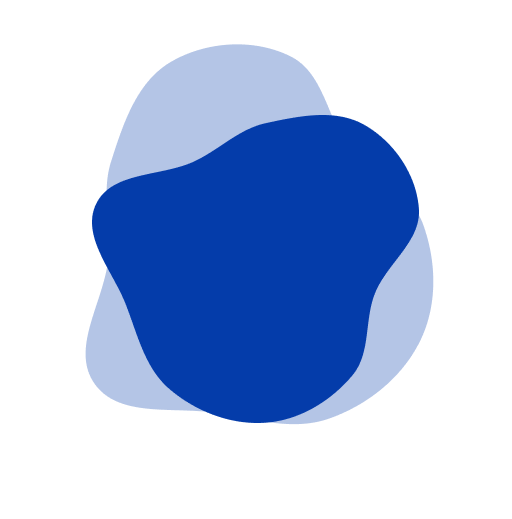
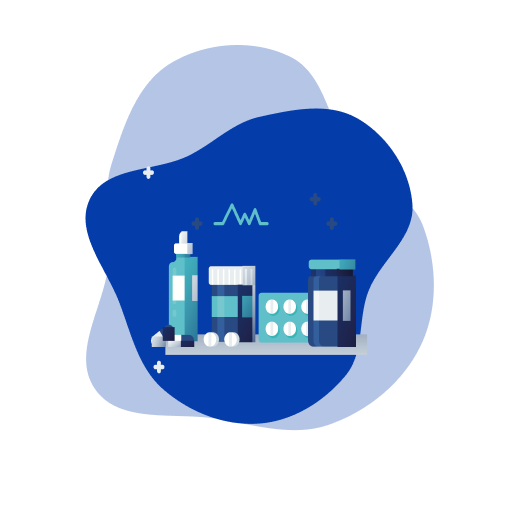
2nd commit

diff --git a/html/index.html b/html/index.html
@@ -14,13 +14,13 @@
                 <img src="../images/logo.png" alt="logo">
                 <h2>Levalis</h2>
             </div>
-            <div class="nav_item nav_item--one"> Home </div>
-            <div class="nav_item nav_item--two"> About Us </div>
-            <div class="nav_item nav_item--three"> Our Products </div>
-            <div class="nav_item nav_item--four"> Contact Us </div>
+            <div class="nav_item nav_item--norm"> Home </div>
+            <div class="nav_item nav_item--norm"> About Us </div>
+            <div class="nav_item nav_item--norm"> Our Products </div>
+            <div class="nav_item nav_item--norm"> Contact Us </div>
 
             <div class="nav_item nav_item--button">
-                <a href=" include google maps link " >
+                <a href="https://www.bing.com/maps?osid=8cf6a7bf-069d-4618-8926-9488ec0c5c44&cp=33.863396~35.534549&lvl=16&pi=0&v=2&sV=2&form=S00027" >
                     <button class="location_button">
                         Locations
                     </button>
@@ -29,7 +29,78 @@
 
 
         </nav>
+
+        <p class="hero_title"> 
+            Delivering Excellence in Healthcare for Your Needs 
+        </p>
+        <p class="hero_description">Focused on oncology, nuclear medicine, and radiology
+            with growing expertise in gastrology and anesthesia.</p>
+        <div class="search">
+            
+        </div>
+     
     </header>
+    <main>
+        <div class="benefits_section">
+            <div class="benefits">
+                <div class="benefits_title">
+                    Comprehensive Healthcare Solutions
+                </div>
+             <ul>
+                <li><img src="../images/Exclude.png"> Search and find your drugs</li>
+                <li><img src="../images/Exclude.png"> We have drugs to treat tumors</li>
+                <li><img src="../images/Exclude.png"> Get notified when your drug is available</li>
+             </ul>
+
+            <button class="perscription_button">
+                GET PERSCRIPTION &rarr;
+            </button>
+            </div>
+            <div class="bubble">
+                <img src="../images/bubble1.png" alt="image" width="400px" height="400px"/>
+            </div>
+        </div>
+        <div class="benefits_section">
+            <div class="bubble">
+                <img src="../images/bubble2.png"/>
+            </div>
+            <div class="benefits">
+                <div class="benefits_title">
+                    Get your drugs at your doorstep
+                </div>
+             <ul>
+                <li><img src="../images/Exclude.png"> Get straigh delivery to your doorstep</li>
+                <li><img src="../images/Exclude.png"> We deliver within 24hrs of request</li>
+                <li><img src="../images/Exclude.png"> We guarantee speedily response</li>
+             </ul>
+
+            <button class="perscription_button">
+                GET PERSCRIPTION &rarr;
+            </button>
+            </div>
+           
+        </div>
+        <div class="benefits_section">
+            <div class="benefits">
+                <div class="benefits_title">
+                    Set up your profile and get refill easily
+                </div>
+             <ul>
+                <li><img src="../images/Exclude.png"> When you are a member your refill is easier</li>
+                <li><img src="../images/Exclude.png"> With one click your medicine is on it’s way</li>
+                <li><img src="../images/Exclude.png"> Select a health care specialist</li>
+             </ul>
+
+            <button class="perscription_button">
+                GET PERSCRIPTION &rarr;x
+            </button>
+            </div>
+            <div class="bubble">
+                <img src="../images/bubble3.png"/>
+            </div>
+            
+        </div>
+    </main>
     
 </body>
 </html>

diff --git a/css/index.css b/css/index.css
@@ -1,19 +1,132 @@
+
 header{
     background-image:url(../images/heroimg.png);
     background-repeat: no-repeat;
     background-position: center;
     background-size:cover;
     background-attachment: fixed;
-    display: flex;
+    display:flex;
     flex-direction: column;
-    height:100vh;
+    height:70vh;
     color:white;
+}
+
+.navigation_bar{
+    display:flex;
+    flex-wrap:nowrap;
+    margin:10px;
+    justify-content:space-evenly;
+}
+
+.logo{
+    display:inline-flex;
+    
+}
+.nav_item--norm{
+    align-self:center;
+    margin-left:10vw;
+}
+.nav_item--button{
+    margin-left:10vw;
+    align-self:center;
+
 }
 
 .location_button{
     border-radius:15px;
     color:white;
-    background-color:#1BC768;
+    background-color:#1acc6a;
     border-color:transparent;
     padding:5px;
+}
+.hero_title{
+    padding:10px;
+    height:min-content;
+    width:70vw; 
+    display:inline-flex;
+    font-size:3em; /*still have to fix margins and responsiveness*/
+    margin-left:20px;
+}
+.hero_description{
+    padding:10px;   
+    margin-left:20px;
+    font-size:1.3em;
+
+}
+.benefits_section{
+    display:flex;
+    margin-left:10vw;
+    margin-right:10vw;
+    margin-top:10vh;
+    padding:10px;
+    justify-content:space-around;
+
+}
+.benefits_title{
+    color:#043CAA;
+    font-size:2em;
+    font-weight:bold;
+}
+ul{
+    list-style-type:none;
+    line-height:2;
+}
+li{
+    font-size:1.4em;
+}
+.perscription_button{
+    color:#1BC768;
+    border-radius:15px;
+    padding:5px;
+    margin-left:2.5vw; /* still have to animate button use dome js functionality*/
+    background-color:transparent;
+    border:3px solid #1BC768;
+    font-weight:bold;
+    
+
+}
+.perscription_button:hover{
+    background-color:rgb(235, 235, 235);
+    color:#18ac5a;
+    transition:0.5ms;
+}
+.bubble{
+    /*this should be responsive*/
+}
+
+
+
+
+
+
+
+
+
+
+
+
+
+
+
+@media screen and (max-width:470px) {
+    header{
+        background-size:contain;
+    }
+    .navigation_bar{
+        flex-wrap:wrap;
+    }
+    .nav_item--norm{
+        margin-left:5vw;
+    }
+    
+}
+@media screen and (max-width:300px){
+    .navigation_bar{
+        flex-direction:column;
+        align-items:flex-end;
+        justify-content:center;
+        margin-top:4vh;
+
+    }
+    
 }
